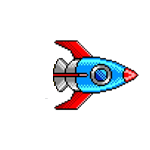
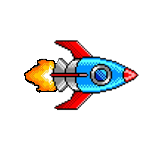
Mouvement dynamique + effet d'accélération et de freinage

Changed region(s): [[0.16, 0.3733, 0.4, 0.6133], [0.2933, 0.64, 0.32, 0.6667]]

diff --git a/src/js/selection.js b/src/js/selection.js
@@ -41,6 +41,7 @@ export default class selection extends Phaser.Scene {
     this.load.image("chiffre2", "src/assets/Chiffre2.png");
     this.load.image("chiffre3", "src/assets/Chiffre3.png");
     this.load.image("vaisseau_marche", "src/assets/vaisseau_marche.png");
+    this.load.image("vaisseau_arrêt_recule", "src/assets/vaisseau_arrêt_recule.png");
     this.load.image("vaisseau_recule", "src/assets/vaisseau_recule.png");
     this.load.image("vaisseau_haut_2", "src/assets/vaisseau_haut_2.png");
     this.load.image("vaisseau_haut_gauche", "src/assets/vaisseau_haut_gauche.png");
@@ -65,7 +66,6 @@ export default class selection extends Phaser.Scene {
    * ainsi que toutes les instructions permettant de planifier des evenements
    */
   create() {
-
   
     const carteDuNiveau = this.add.tilemap("carte");
 
@@ -97,6 +97,9 @@ export default class selection extends Phaser.Scene {
     this.player.setSize(128,64);
     this.player.setCollideWorldBounds(true);
     this.player.setBounce(0.2);
+
+    this.player.vitesseMax = 800; // Vitesse maximale du vaisseau
+    this.player.acceleration = 6; // Accélération du vaisseau
 
     // redimensionnement du monde avec les dimensions calculées via tiled
     this.physics.world.setBounds(0, 0, 1850, 640);
@@ -136,37 +139,69 @@ export default class selection extends Phaser.Scene {
 
   update() {
  
-    if (clavier.left.isDown) {
-      this.player.setVelocityX(-450);
-      this.player.setTexture("vaisseau_recule");
-      this.player.direction = 'left'
+// Gestion des mouvements horizontaux
+if (clavier.left.isDown) {
+  // Accélération progressive vers la gauche
+  this.player.setVelocityX(Math.max(this.player.body.velocity.x - this.player.acceleration, -this.player.vitesseMax));
+  this.player.setTexture("vaisseau_recule");
+  this.player.direction = 'left';
+} else if (clavier.right.isDown) {
+  // Accélération progressive vers la droite
+  this.player.setVelocityX(Math.min(this.player.body.velocity.x + this.player.acceleration, this.player.vitesseMax));
+  this.player.setTexture("vaisseau_marche");
+  this.player.direction = 'right';
+} else {
+  // Freinage progressif en cas de relâchement des touches horizontales
+  if (this.player.body.velocity.x > 0) {
+    this.player.setVelocityX(Math.max(this.player.body.velocity.x - this.player.acceleration, 0));
+    this.player.setTexture("vaisseau_marche");
+  } else if (this.player.body.velocity.x < 0) {
+    this.player.setVelocityX(Math.min(this.player.body.velocity.x + this.player.acceleration, 0));
+    this.player.setTexture("vaisseau_recule");
+  } else {
+    // Ajout de la condition pour la texture lorsque le vaisseau est immobile horizontalement
+    if (this.player.direction === 'left') {
+      this.player.setTexture("vaisseau_arrêt_recule");
+    } else if (this.player.direction === 'right') {
+      this.player.setTexture("vaisseau_arrêt");
+    }
+  }
+}
+  // Gestion des mouvements verticaux
+  if (clavier.up.isDown) {
+    // Accélération progressive vers le haut
+    this.player.setVelocityY(Math.max(this.player.body.velocity.y - this.player.acceleration, -this.player.vitesseMax));
 
-    } else if (clavier.right.isDown) {
-      this.player.setVelocityX(450);
-      this.player.setTexture("vaisseau_marche");
-      this.player.direction = 'right'
-
+    // Ajout de la condition pour la texture lorsque le vaisseau monte
+    if (this.player.direction === 'left') {
+      this.player.setTexture("vaisseau_haut_gauche");
     } else {
-      this.player.setVelocityX(0);
+      this.player.setTexture("vaisseau_haut_2");
+    }
+  } else if (clavier.down.isDown) {
+    // Accélération progressive vers le bas
+    this.player.setVelocityY(Math.min(this.player.body.velocity.y + this.player.acceleration, this.player.vitesseMax));
+
+    // Ajout de la condition pour la texture lorsque le vaisseau descend
+    if (this.player.direction === 'left') {
+      this.player.setTexture("vaisseau_haut_gauche");
+    } else {
+      this.player.setTexture("vaisseau_haut_2");
+    }
+  } else {
+    // Freinage progressif en cas de relâchement des touches verticales
+    if (this.player.body.velocity.y > 0) {
+      this.player.setVelocityY(Math.max(this.player.body.velocity.y - this.player.acceleration, 0));
+    } else if (this.player.body.velocity.y < 0) {
+      this.player.setVelocityY(Math.min(this.player.body.velocity.y + this.player.acceleration, 0));
     }
 
-    if (clavier.up.isDown) {
-      this.player.setVelocityY(-500);
-      if (this.player.texture.key === "vaisseau_marche") {
-          this.player.setTexture("vaisseau_haut_2");
-      } else if (this.player.texture.key === "vaisseau_recule") {
-          this.player.setTexture("vaisseau_haut_gauche");
-      }
-  } else if (clavier.down.isDown) {
-      this.player.setVelocityY(500);
-      if (this.player.texture.key === "vaisseau_marche") {
-          this.player.setTexture("vaisseau_haut_2");
-      } else if (this.player.texture.key === "vaisseau_recule") {
-          this.player.setTexture("vaisseau_haut_gauche");
-      }
-  } else {
-      // Réinitialisation de la vélocité verticale lorsque la touche du haut ou du bas n'est pas enfoncée
-      this.player.setVelocityY(0);
+    // Réinitialisation de la texture lorsque le vaisseau est immobile verticalement
+    if (this.player.direction === 'left') {
+      this.player.setTexture("vaisseau_arrêt_recule");
+    } else {
+      this.player.setTexture("vaisseau_arrêt");
+    }
   }
 
     if (Phaser.Input.Keyboard.JustDown(clavier.space)) {

diff --git a/src/index.js b/src/index.js
@@ -23,7 +23,7 @@ var config = {
       gravity: {
         y: 0 // gravité verticale : acceleration ddes corps en pixels par seconde
       },
-      debug: false // permet de voir les hitbox et les vecteurs d'acceleration quand mis à true
+      debug: true // permet de voir les hitbox et les vecteurs d'acceleration quand mis à true
     }
   },
   scene: [menu,selection, niveau1, niveau2, niveau3]
